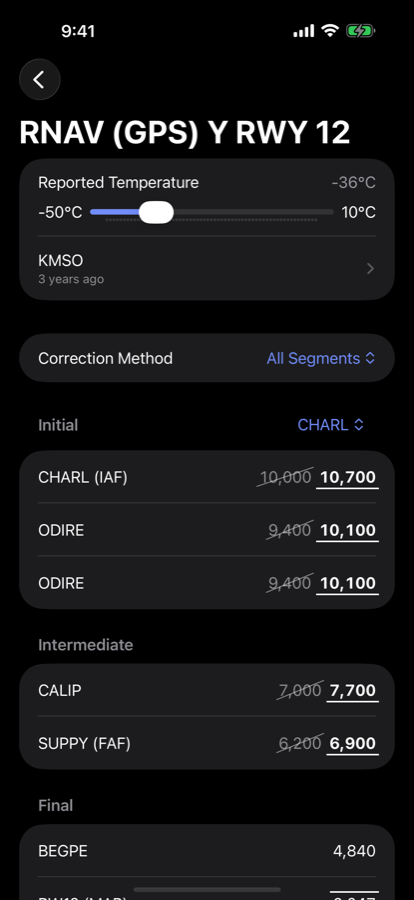
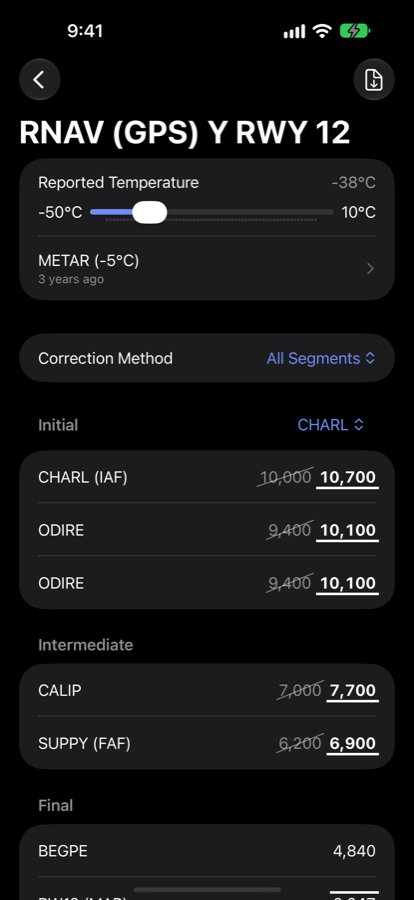
Record the iOS 27 requirement and re-shoot the site screenshots
The README named the old floor in prose, and repeated the Swift version
in a way that reads as the language mode the project is built in. Both
are now stated, and separated: Swift 6.4 is the compiler, 6.0 is the
mode. The CI section says where the jobs run and why the image is named
after Xcode rather than the OS.

Re-shooting the screenshots meant fixing the lane first. It has been
broken since the chart screenshot was added: that capture took 02, which
pushed Approaches to 04 and Airports to 05, and SITE_SCREENS still asked
for the numbers they had before. The lane failed on the missing files
rather than installing the wrong ones, so the site has simply been
showing screenshots from before the plates feature. The page's four
references move with the filenames.

The capture device moves for the same reason CI's did: iPhone 17 Pro Max
is not in the iOS 27 simulator set, so snapshot refused to start.

The UI test observation now reports a temperature. It deliberately
reported none, so that the fix list's auto-fill would leave the seeded
0 °C standing — but that also meant the airport list could only ever
draw the cold temperature badge in its "no observation" state, and the
marketing screenshot showed a grey badge where the page wants the one
that says a station is reporting. −5 °C sits above KMSO's −11 °C
restriction, so the approach still corrects nothing until a test reports
something colder, which is what the flow test asserts and what the
[…]

diff --git a/docs/index.html b/docs/index.html
@@ -439,11 +439,11 @@
               <div role="tabpanel" id="shot-airports" aria-labelledby="step-airport" tabindex="0">
                 <picture>
                   <source
-                    srcset="images/screenshots/dark/iphone-04-airports.png"
+                    srcset="images/screenshots/dark/iphone-05-airports.png"
                     media="(prefers-color-scheme: dark)"
                   />
                   <img
-                    src="images/screenshots/light/iphone-04-airports.png"
+                    src="images/screenshots/light/iphone-05-airports.png"
                     alt="The airports screen showing favorites, with KMSO Missoula Montana at minus 11 degrees Celsius."
                     width="414"
                     height="900"
@@ -460,11 +460,11 @@
               >
                 <picture>
                   <source
-                    srcset="images/screenshots/dark/iphone-03-approaches.png"
+                    srcset="images/screenshots/dark/iphone-04-approaches.png"
                     media="(prefers-color-scheme: dark)"
                   />
                   <img
-                    src="images/screenshots/light/iphone-03-approaches.png"
+                    src="images/screenshots/light/iphone-04-approaches.png"
                     alt="The list of published instrument approaches for an airport."
                     width="414"
                     height="900"

diff --git a/CTA Helper/CTA_HelperApp.swift b/CTA Helper/CTA_HelperApp.swift
@@ -11,17 +11,17 @@ struct CTA_HelperApp: App {
     /**
      The weather a UI test is served, keyed by station ID.
 
-     The observation reports no temperature on purpose: the fix list auto-fills the reported
-     temperature from the METAR, and a seeded reading would displace the 0 °C the seeded data is
-     corrected at. Reporting none leaves that default standing while still giving the fix list a
-     station to link its weather screen to.
+     The reading sits above KMSO's −11 °C restriction, so the airport list draws the badge in the
+     state that says a station is reporting and no correction is called for — the state the
+     marketing screenshots show. The fix list auto-fills its reported temperature from this, so
+     it is what the seeded approach is corrected at.
      */
     private static let uiTestObservations = [
       "KMSO": METARObservation(
         stationID: "KMSO",
-        temperature: nil,
+        temperature: .celsius(-5),
         date: Date(timeIntervalSince1970: 1_700_000_000),
-        rawText: "METAR KMSO 141953Z 28008KT 10SM FEW070 SCT090 A2996 RMK AO2"
+        rawText: "METAR KMSO 141953Z 28008KT 10SM FEW070 SCT090 M05/M12 A2996 RMK AO2"
       )
     ]
   #endif

diff --git a/CTA HelperUITests/CTA_HelperUITests.swift b/CTA HelperUITests/CTA_HelperUITests.swift
@@ -16,8 +16,8 @@ nonisolated final class CTA_HelperUITests: XCTestCase {
       .openAirport("KMSO")
       .openApproach("R12-Y")
 
-    // The seeded temperature (0 °C) is warmer than KMSO's −11 °C restriction, so there is
-    // nothing to correct until the pilot reports a colder temperature.
+    // The reported temperature the fix list auto-fills (−5 °C) is warmer than KMSO's −11 °C
+    // restriction, so there is nothing to correct until the pilot reports a colder one.
     fixes.assertNoCorrectionNecessary()
     attach(fixes.app.screenshot(), named: "NoCorrectionNecessary")
 

diff --git a/README.md b/README.md
@@ -24,10 +24,12 @@ and all altitudes from the official approach plate before you fly them.
 
 ## Getting started
 
-Swift 6.3 under complete strict concurrency, targeting iOS 26.5. Clone the
-repository, open `CTA Helper.xcodeproj` in Xcode 26 or newer, and build — Xcode
-resolves the package dependencies on first open, and nothing else needs
-configuring to run the app in a simulator.
+Swift 6.4 under complete strict concurrency, targeting iOS 27. The project
+builds in Swift 6 language mode, which is `SWIFT_VERSION = 6.0` in the build
+settings — a language mode, not the compiler version. Clone the repository,
+open `CTA Helper.xcodeproj` in Xcode 27 or newer, and build — Xcode resolves the
+package dependencies on first open, and nothing else needs configuring to run
+the app in a simulator.
 
 | Package | Used for |
 | --- | --- |
@@ -173,6 +175,13 @@ GitHub Actions runs on every push and pull request to `main`:
   `swift format lint --strict`.
 - **Periphery** (`periphery.yml`) runs `periphery scan --strict` as a dead-code
   gate.
+
+The jobs that need the iOS SDK run on the `xcode-27` runner image, which is a
+public preview rather than a GA one. There is no `macos-27` to use instead:
+GitHub now names an image after the major Xcode version it carries rather than
+after the OS, and `macos-26` stops at Xcode 26.6. `macos-latest` resolves to
+`macos-26`, so it does not carry the toolchain this app needs; the lint jobs run
+on it because they need neither the SDK nor a simulator.
 
 Pushing a version tag releases:
 

diff --git a/CTA HelperUITests/CLAUDE.md b/CTA HelperUITests/CLAUDE.md
@@ -52,9 +52,12 @@ arguments as app settings. `Support/AppLaunch.swift` names them.
   `CTA_HelperApp` injects a `METARLoader(serving:)` with one fixed observation
   and a `NetworkMonitor(reporting: true)`, and discards the persisted settings so
   one test's rounding or favorites cannot decide another's outcome.
-- Don't seed a temperature into that observation — it reports none so
-  `FixListView`'s auto-fill no-ops and the seeded 0 °C default holds, which is
-  what `testCorrectsAnApproachFromTheAirportList` asserts against.
+- That observation reports −5 °C, which `FixListView` auto-fills as the reported
+  temperature. It sits above KMSO's −11 °C restriction, so nothing is corrected
+  until a test reports something colder — which is what
+  `testCorrectsAnApproachFromTheAirportList` asserts against, and what draws the
+  airport list's badge in the state the marketing screenshots show. Move it
+  below the restriction and both stop holding.
 - Wait for a row before swiping toward it. A row the list has not drawn yet is
   not a row below the fold, and a scroll aimed at one goes straight past it —
   `FixListScreen.scroll(to:_:describedAs:)` probes first for that reason, then
